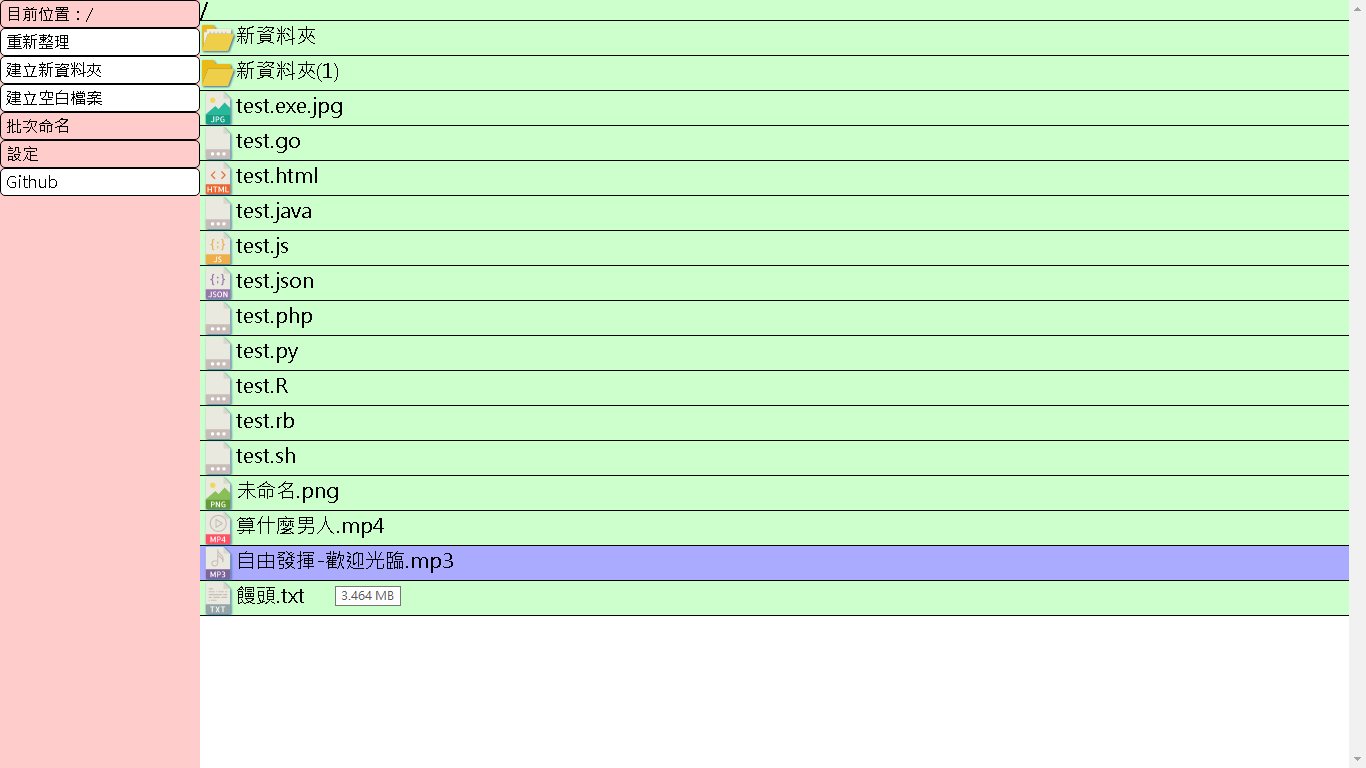
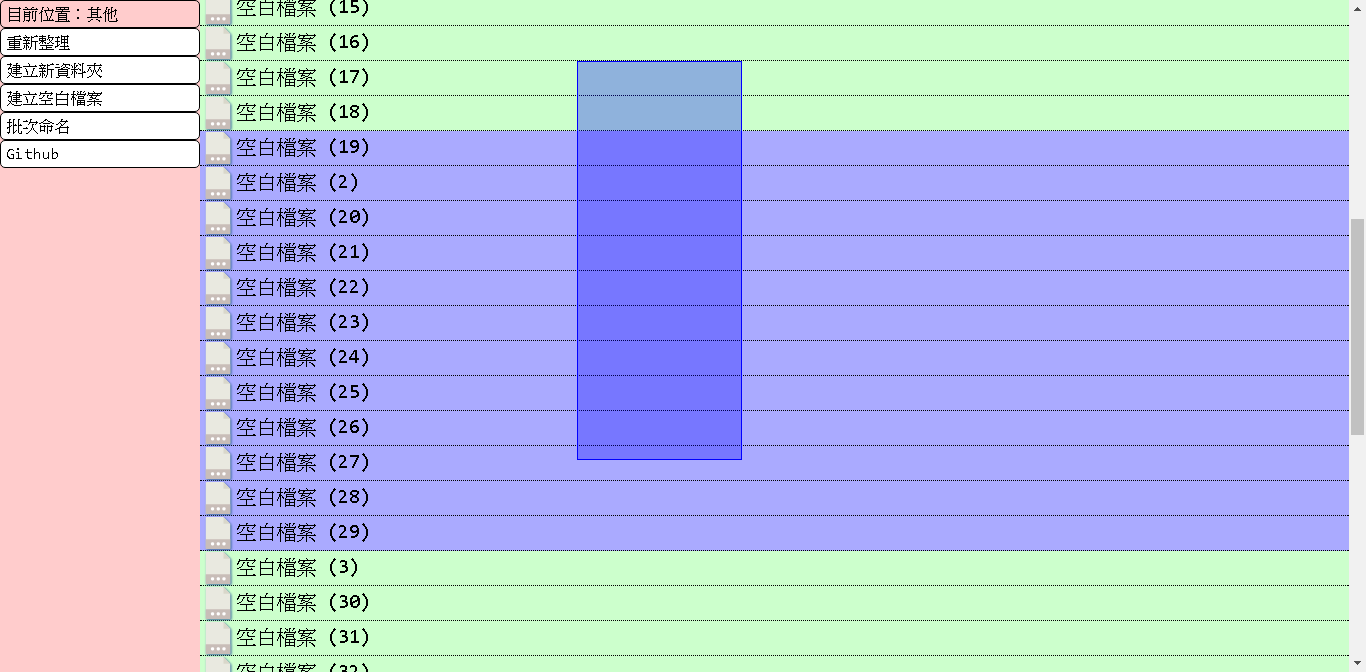
選取框到邊邊滾動滾輪 + README.md資訊增加 + 加入全選跟反選
mouseDownInfo轉變成mouseInfo(加了滑鼠位置)
選取框到邊邊滾動滾輪
修復"回上一層"不一定存在BUG
確保selectzone初始大小為一點
README.md資訊增加
補上connect.example.inc
加入全選跟反選

diff --git a/js/main.js b/js/main.js
@@ -1,6 +1,6 @@
 /**
 * TcStorage
-* @version 0.1.5
+* @version 0.1.6
 * @author TCC <john987john987@gmail.com>
 * @date 2017-09-27
 * @since 2017-09-25 0.1.0 TCC: 排除資料夾移動到自己
@@ -19,11 +19,21 @@
 * @since 2017-09-27 0.1.5 TCC: 解決滾輪偏移
 * @since 2017-09-27 0.1.5 TCC: 處理拖曳到自己顯示BUG
 * @since 2017-09-27 0.1.5 TCC: 設定"回上一層"不可選
+* @since 2017-09-27 0.1.6 TCC: mouseDownInfo轉變成mouseInfo(加了滑鼠位置)
+* @since 2017-09-27 0.1.6 TCC: 選取框到邊邊滾動滾輪
+* @since 2017-09-27 0.1.6 TCC: 修復"回上一層"不一定存在BUG
+* @since 2017-09-27 0.1.6 TCC: 確保selectzone初始大小為一點
+* @since 2017-09-27 0.1.6 TCC: 加入全選跟反選
 */
-var mouseDownInfo = {
-    element: null,
+var mouseInfo = {
+    down: {
+        element: null,
+        x: null,
+        y: null
+    },
     x: null,
     y: null
+
 };
 var selectedElements = [];
 var clickTimer = null;
@@ -246,8 +256,14 @@ function ace(file_id) {
 function reCalc(x1, y1, x2, y2) {
     var minX = Math.max(Math.min(x1, x2), fileList.offsetLeft) - fileList.offsetLeft;
     var maxX = Math.min(Math.max(x1, x2), fileList.offsetLeft + fileList.clientWidth - 2) - fileList.offsetLeft; //  +
-    var minY = Math.max(Math.min(y1, y2), fileList.offsetTop + document.getElementsByClassName("breadcrumbs")[0].offsetHeight + document.getElementsByClassName("back")[0].offsetHeight);
+    var minY = Math.max(Math.min(y1, y2), fileList.offsetTop + document.getElementsByClassName("breadcrumbs")[0].offsetHeight + (document.getElementsByClassName("back").length ? document.getElementsByClassName("back")[0].offsetHeight : 0));
     var maxY = Math.min(Math.max(y1, y2), fileList.offsetTop + fileList.scrollHeight - 2);
+    if (y1 == y2) { // 確保初始大小
+        maxY = minY;
+    }
+    if (x1 == x2) { // 確保初始大小
+        maxX = minX;
+    }
     document.getElementsByClassName("selectzone")[0].style.left = minX + 'px';
     document.getElementsByClassName("selectzone")[0].style.top = minY + 'px';
     document.getElementsByClassName("selectzone")[0].style.width = maxX - minX + 'px';
@@ -333,9 +349,23 @@ function download(element) {
     window.open('files/download/' + element.file_id + '/' + element.file_name);
 
 }
+function selectAll() {
+    selectedElements.clearSelected();
+    document.querySelectorAll(".folder,.file").forEach(function(element) {
+        selectedElements.addSelect(element);
+    })
+}
+function inverseSelect() {
+    document.querySelectorAll(".folder,.file").forEach(function(element) {
+        if (selectedElements.includes(element)) {
+            selectedElements.removeSelected(element);
+        } else {
+            selectedElements.addSelect(element);
+        }
+    })
+}
 function finishSelect(evt) {
     // TODO: Shift鍵連續選取
-    console.log("finishSelect");
     if (document.getElementsByClassName("selectzone")[0].style.display != "") {
         document.getElementsByClassName("selectzone")[0].style.display = "";
         var zone = {
@@ -344,7 +374,8 @@ function finishSelect(evt) {
             height: parseInt(document.getElementsByClassName("selectzone")[0].style.height.replace("px", "")),
             width: parseInt(document.getElementsByClassName("selectzone")[0].style.width.replace("px", ""))
         };
-        console.dir(evt);
+        // console.log("finishSelect");
+        // console.dir(evt);
         if (evt.button == 0) { // 滑鼠右鍵
             if (!evt.ctrlKey) {
                 selectedElements.clearSelected();
@@ -511,7 +542,7 @@ fileList.onmousedown = function(evt) {
         if (evt.button == 1) { // 滑鼠中鍵
             evt.preventDefault();
         } else if (evt.button == 0) { // 滑鼠右鍵
-            mouseDownInfo = {
+            mouseInfo.down = {
                 element: evt.target,
                 x: evt.clientX,
                 y: evt.clientY + fileList.scrollTop
@@ -524,7 +555,7 @@ fileList.onmousedown = function(evt) {
             }
 
             // TODO: 假如按下的點不再框框內，要重置selectzone大小，或者back、breadcrumbs不要觸發selectzone
-            reCalc(mouseDownInfo.x, mouseDownInfo.y, mouseDownInfo.x, mouseDownInfo.y);
+            reCalc(mouseInfo.down.x, mouseInfo.down.y, mouseInfo.down.x, mouseInfo.down.y);
             document.getElementsByClassName("selectzone")[0].style.display = "block";
             // console.log(evt);
         }
@@ -541,12 +572,36 @@ document.getElementById("context").onclick = function(evt) {
     }
 };
 window.onmousemove = function(evt) {
-    if (mouseDownInfo.x != null) {
-        if (evt.buttons == 0) {
+    mouseInfo.x = evt.x, mouseInfo.y = evt.y;
+    if (mouseInfo.down.x != null) {
+        if (evt.buttons == 0) { // 沒有按鍵
             finishSelect(evt);
+            mouseInfo.down = { // DEBUG:
+                element: null,
+                x: null,
+                y: null
+            };
         } else {
-            // TODO: 選取框到邊邊滾動滾輪，可以試看看觸發選取事件
-            reCalc(mouseDownInfo.x, mouseDownInfo.y, evt.clientX, evt.clientY + fileList.scrollTop);
+            function animate(element, propertie, value, step = 100, stop_condition = null) { // jQuery.animate模擬
+                if (value == element[propertie]) return;
+                var step = (value < element[propertie] ? -1 : 1) * Math.abs(step), id = null;
+                function frame() {
+                    console.log("animate " + element[propertie] + " " + step);
+                    element[propertie] += step;
+                    console.log(element[propertie]);
+                    if (stop_condition || element[propertie] == value) {
+                        clearInterval(id);
+                    }
+                }
+                id = setInterval(frame, 10);
+            }
+            // 選取框到邊邊滾動滾輪 TODO: 捲動更滑順
+            if (evt.y < fileList.clientTop + 50) {
+                animate(fileList, "scrollTop", 0, 35, function() {return mouseInfo.y >= fileList.clientTop + 50}); // 往上
+            } else if (evt.y > fileList.clientTop + fileList.clientHeight - 50) {
+                animate(fileList, "scrollTop", fileList.scrollHeight - fileList.offsetHeight, 35, function() {return mouseInfo.y <= fileList.clientTop + fileList.clientHeight - 50}); // 往下
+            }
+            reCalc(mouseInfo.down.x, mouseInfo.down.y, evt.clientX, evt.clientY + fileList.scrollTop);
         }
     }
 };
@@ -562,11 +617,10 @@ fileList.onmouseup = function(evt) {
     } else if (evt.button == 0) { // 滑鼠右鍵
         if (evt.target.classList.contains("file") || evt.target.classList.contains("folder")) {
             evt.target.draggable = false;
-            if (mouseDownInfo.element == evt.target) {
+            if (mouseInfo.down.element == evt.target) {
                 if (!evt.ctrlKey) {
-                    if (selectedElements.includes(evt.target)) { // 單擊已選擇
-                        //需判斷單擊雙擊
-                        if (evt.detail == 1) {
+                    if (selectedElements.length == 1 && selectedElements.includes(evt.target)) { // 單擊已選擇，且不是多選
+                        if (evt.detail == 1) { // 預留時間判斷單擊雙擊
                             clickTimer = setTimeout(rename, 300); // .bind(null, evt.target)
                         } else {
                             clearTimeout(clickTimer);
@@ -591,14 +645,14 @@ fileList.onmouseup = function(evt) {
             }
         }
         // else if (evt.target.classList.contains("back")) {
-        //     if (mouseDownInfo.element == evt.target) {
+        //     if (mouseInfo.down.element == evt.target) {
         //         if (!evt.ctrlKey) {
         //             listPath(evt.target.path_id);
         //         }
         //     }
         // }
     }
-    mouseDownInfo = {
+    mouseInfo.down = {
         element: null,
         x: null,
         y: null
@@ -621,7 +675,7 @@ fileList.onmouseover = function(evt) {
     }
 };
 fileList.onmouseout = function(evt) {
-    mouseDownInfo.element = null;
+    mouseInfo.down.element = null;
     if (!selectedElements.includes(evt.target)) {
         evt.target.draggable = false;
     }

diff --git a/index.php b/index.php
@@ -31,9 +31,14 @@
             <li onclick="createNew('file');">建立空白檔案</li>
             <li onclick="rename();">批次命名</li>
             <!-- <li>設定</li> -->
+            <li onclick="selectAll();">全部選取</li>
+            <li onclick="inverseSelect();">反向選取</li>
             <li onclick="github();">Github</li>
         </menu>
-        <div id="fileList"></div>
+        <div id="fileList">
+            <ul class="breadcrumbs"><li path_id="0" draggable="false">/</li></ul>
+            <div class="selectzone"></div>
+        </div>
         <div id="dropzone"></div>
         <!-- <div id="selectzone"></div> -->
     </main>

diff --git a/README.md b/README.md
@@ -2,13 +2,45 @@
 
 ## Contents[↶](#)
 * **[Introduction](#introduction)**
+* **[Installation](#installation)**
+* **[ShortKey](#shortkey)**
+* **[Todo](#todo)**
 * **[History](#history)**
+* **[Contributing](#contributing)**
 
 ## Introduction[↶](#)
-這是以寫[:octocat:舊版](https://github.com/TCCinTaiwan/file-manager)的經驗為基礎，重構的新版本，目前主要是在Chrome環境中執行，其他瀏覽器不一定支援。
+這是以寫[:octocat:舊版](https://github.com/TCCinTaiwan/file-manager)的經驗為基礎，重構的新版本，多媒體參考[:octocat:TcTube](https://github.com/TCCinTaiwan/TcTube)部分內容，目前主要是在Chrome環境中執行，其他瀏覽器不一定支援。
 ![截圖](screenshot.png)
 ![截圖2](screenshot-2.png)
 ![截圖3](screenshot-3.png)
+
+## Installation[↶](#)
+1. Clone the repository to your web server's document root
+
+    Use command:
+
+    ```bash
+    cd C:/www/
+    git clone https://github.com/TCCinTaiwan/TcStorage
+    ```
+
+    Or:
+
+    [ ![Download from Github](setup/download-from-github.png)](https://github.com/TCCinTaiwan/TcStorage/archive/master.zip)
+2. Create mysql database and import [TcStorage.sql](TcStorage.sql)
+3. Modify [functions/connect.example.inc](functions/connect.example.inc) to set the correct database connection information
+>Make sure the user has permission to view and modify the database
+4. Ok, now you can open the browser using this system
+>The URL should like: http://127.0.0.1/TcStorage
+
+## ShortKey[↶](#)
+* <kbd>F2</kbd> 重新命名
+
+## Todo[↶](#)
+* 多選 - shift
+* 預覽
+* 帳戶
+* 使用提示
 
 ## History[↶](#)
 * 2017-01-25
@@ -122,3 +154,18 @@
     - 處理拖曳到自己顯示BUG
     - 設定"回上一層"不可選
     - 修改"回上一層"顏色
+    - mouseDownInfo轉變成mouseInfo(加了滑鼠位置)
+    - 選取框到邊邊滾動滾輪
+    - 修復"回上一層"不一定存在BUG
+    - 確保selectzone初始大小為一點
+    - README.md資訊增加
+    - 補上[connect.example.inc](connect.example.inc)
+    - 加入全選跟反選
+
+## Contributing[↶](#)
+1. Create an issue and describe your idea
+2. [![GitHub forks](https://img.shields.io/github/forks/TCCinTaiwan/TcTube.svg?style=social&label=Fork&maxAge=2592000)](https://github.com/TCCinTaiwan/TcTube/network) it!
+3. Create your feature branch: `git checkout -b my-new-feature`
+4. Commit your changes: `git commit -m 'Add some feature'`
+5. Push to the branch: `git push origin my-new-feature`
+6. Submit a Pull Request
